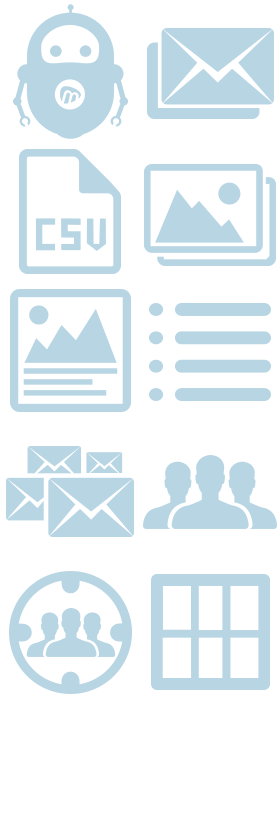
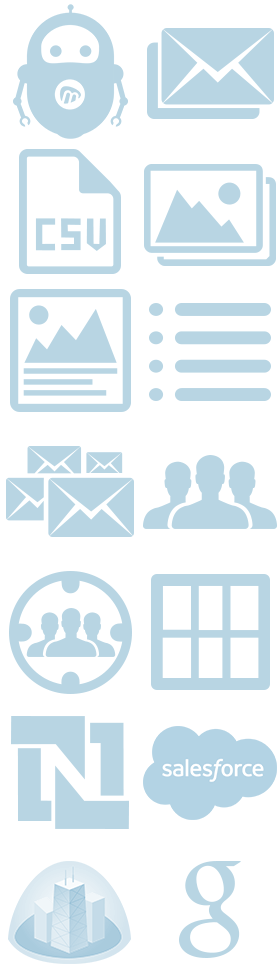
Fixed Template and CRM Images Committed at 7:52pm 05-Dec-2014
Fixed up the issues reported and

diff --git a/apps/bridgemail/bmstemplates/mytemplates.js b/apps/bridgemail/bmstemplates/mytemplates.js
@@ -74,20 +74,22 @@ function (template) {
             },
             createCampaign: function(obj)
             {
+                    var templateId =  $.getObj(obj,"a").attr("id").split("_")[1];
                     this.app.showAddDialog(
                     {
                       app: this.app,
                       heading : 'New Campaign',
                       buttnText: 'Create',
+                      bgClass :'campaign-tilt',
                       plHolderText : 'Enter campaign name here',
                       emptyError : 'Campaign name can\'t be empty',
                       createURL : '/pms/io/campaign/saveCampaignData/',
                       fieldKey : "campName",
-                      postData : {type:'create',BMS_REQ_TK:this.app.get('bms_token')},
+                      postData : {type:'create',BMS_REQ_TK:this.app.get('bms_token'),templateNumber:templateId},
                       saveCallBack :  _.bind(this.app.mainContainer.createCampaign,this.app.mainContainer) // Calling same view for refresh headBadge
                     });
-                   /* var templateId =  $.getObj(obj,"a").attr("id").split("_")[1];
-                    var camp_obj = this;
+                    
+                    /*var camp_obj = this;
                     var dialog_title = "New Campaign";
                     var dialog = this.app.showDialog({title:dialog_title,
                         css:{"width":"650px","margin-left":"-325px"},

diff --git a/apps/bridgemail/crm/google/myimports.js b/apps/bridgemail/crm/google/myimports.js
@@ -219,7 +219,7 @@ define(['text!crm/google/html/myimports.html', 'crm/google/collections/myimports
                 },
                 newImport: function() {
                     var new_import ='<div class="overlay"><div style="margin-left: -385px; width: 770px;" class="modal-open modal in"><div style="min-height: 300px;" class="modal-body">';
-                        new_import +='<div class="sd_common"><a class="closebtn close_import"></a>';
+                        new_import +='<div class="sd_common google-tilt"><a class="closebtn close_import"></a>';
                         new_import +=' <div class="watermark_tilt" style="background-position:"></div>';
                         new_import +='<h2>New Import</h2><div class="lp_name">';
                         new_import +=' <div class="inputcont" style="height:39px;float:left;width:324px;">';
@@ -249,7 +249,7 @@ define(['text!crm/google/html/myimports.html', 'crm/google/collections/myimports
                             this.parent.updateImport(importName);
                         }else{
                             this.app.showError({
-                            control: el.parents('.modal-open').find('.campname-container'),
+                            control: el.parents('body').find('.modal-open'),
                             message: appMsgs.MAPDATA_importlist_empty_error
                             });
                         }

diff --git a/apps/bridgemail/crm/highrise/myimports.js b/apps/bridgemail/crm/highrise/myimports.js
@@ -219,7 +219,7 @@ function (template,MyImports,moment) {
                 newImport:function(){
                     var camp_obj = this;
                      var new_import ='<div class="overlay"><div style="margin-left: -385px; width: 770px;" class="modal-open modal in"><div style="min-height: 300px;" class="modal-body">';
-                        new_import +='<div class="sd_common"><a class="closebtn close_import"></a>';
+                        new_import +='<div class="sd_common highrise-tilt"><a class="closebtn close_import"></a>';
                         new_import +=' <div class="watermark_tilt" style="background-position:"></div>';
                         new_import +='<h2>New Import</h2><div class="lp_name">';
                         new_import +=' <div class="inputcont" style="height:39px;float:left;width:324px;">';
@@ -249,7 +249,7 @@ function (template,MyImports,moment) {
                         this.parent.updateImport(importName);
                     }else{
                          this.app.showError({
-                            control: el.parents('.modal-open').find('.campname-container'),
+                            control: el.parents('body').find('.modal-open'),
                             message: appMsgs.MAPDATA_importlist_empty_error
                             });
                     }

diff --git a/apps/bridgemail/crm/netsuite/myimports.js b/apps/bridgemail/crm/netsuite/myimports.js
@@ -216,7 +216,7 @@ function (template,MyImports,moment) {
                 newImport:function(){
                     var camp_obj = this;
                    var new_import ='<div class="overlay"><div style="margin-left: -385px; width: 770px;" class="modal-open modal in"><div style="min-height: 300px;" class="modal-body">';
-                        new_import +='<div class="sd_common"><a class="closebtn close_import"></a>';
+                        new_import +='<div class="sd_common netsuit-tilt"><a class="closebtn close_import"></a>';
                         new_import +=' <div class="watermark_tilt" style="background-position:"></div>';
                         new_import +='<h2>New Import</h2><div class="lp_name">';
                         new_import +=' <div class="inputcont" style="height:39px;float:left;width:324px;">';
@@ -246,7 +246,7 @@ function (template,MyImports,moment) {
                     this.parent.updateImport(importName);
                     }else{
                         this.app.showError({
-                            control: el.parents('.modal-open').find('.campname-container'),
+                            control: el.parents('body').find('.modal-open'),
                             message: appMsgs.MAPDATA_importlist_empty_error
                             });
                     }

diff --git a/apps/bridgemail/crm/salesforce/myimports.js b/apps/bridgemail/crm/salesforce/myimports.js
@@ -219,7 +219,7 @@ function (template,MyImports,moment) {
                 newImport:function(){
                     var camp_obj = this;
                     var new_import ='<div class="overlay"><div style="margin-left: -385px; width: 770px;" class="modal-open modal in"><div style="min-height: 300px;" class="modal-body">';
-                        new_import +='<div class="sd_common"><a class="closebtn close_import"></a>';
+                        new_import +='<div class="sd_common salesforce-tilt"><a class="closebtn close_import"></a>';
                         new_import +=' <div class="watermark_tilt" style="background-position:"></div>';
                         new_import +='<h2>New Import</h2><div class="lp_name">';
                         new_import +=' <div class="inputcont" style="height:39px;float:left;width:324px;">';
@@ -262,7 +262,7 @@ function (template,MyImports,moment) {
                     this.parent.updateImport(importName);
                     }else{
                         this.app.showError({
-                            control: el.parents('.modal-open').find('.inputcont'),
+                            control: el.parents('body').find('.modal-open'),
                             message: appMsgs.MAPDATA_importlist_empty_error
                             });
                     }

diff --git a/css/changes.css b/css/changes.css
@@ -3788,6 +3788,18 @@ ul.autobot-headbadge li.clickable_badge a:hover{
 .target-tilt .watermark_tilt{
     background-position :  7px -568px;
 }
+.google-tilt .watermark_tilt{
+    background-position : 152px 138px;
+}
+.highrise-tilt .watermark_tilt{
+    background-position :  0 137px;
+}
+.netsuit-tilt .watermark_tilt{
+    background-position :  0 282px;
+}
+.salesforce-tilt .watermark_tilt{
+    background-position :  143px 282px;
+}
 
 /*
 -------------- ENDS HERE ----------

diff --git a/apps/bridgemail/bmstemplates/templates.js b/apps/bridgemail/bmstemplates/templates.js
@@ -73,7 +73,7 @@ function (template,highlight,templateCollection,templateRowView) {
                     if(this.app.checkError(_json)){
                           return false;
                     }
-                    this.app.set("isAdmin",_json[1])
+                    this.app.set("isAdmin",_json[1]);
                 
                 },this));
             },
